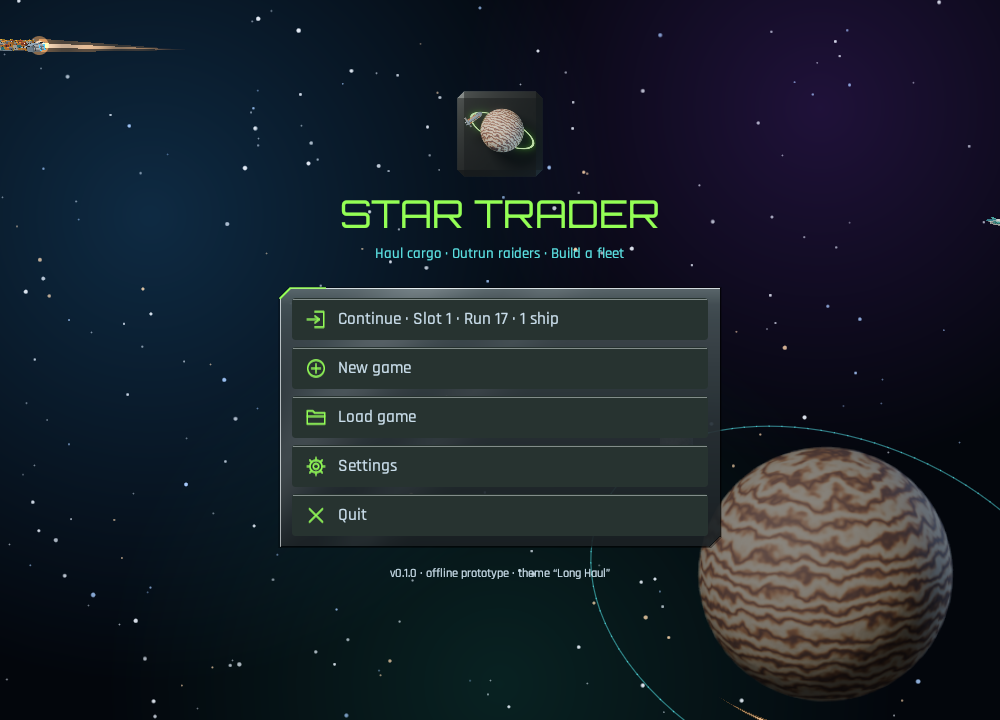
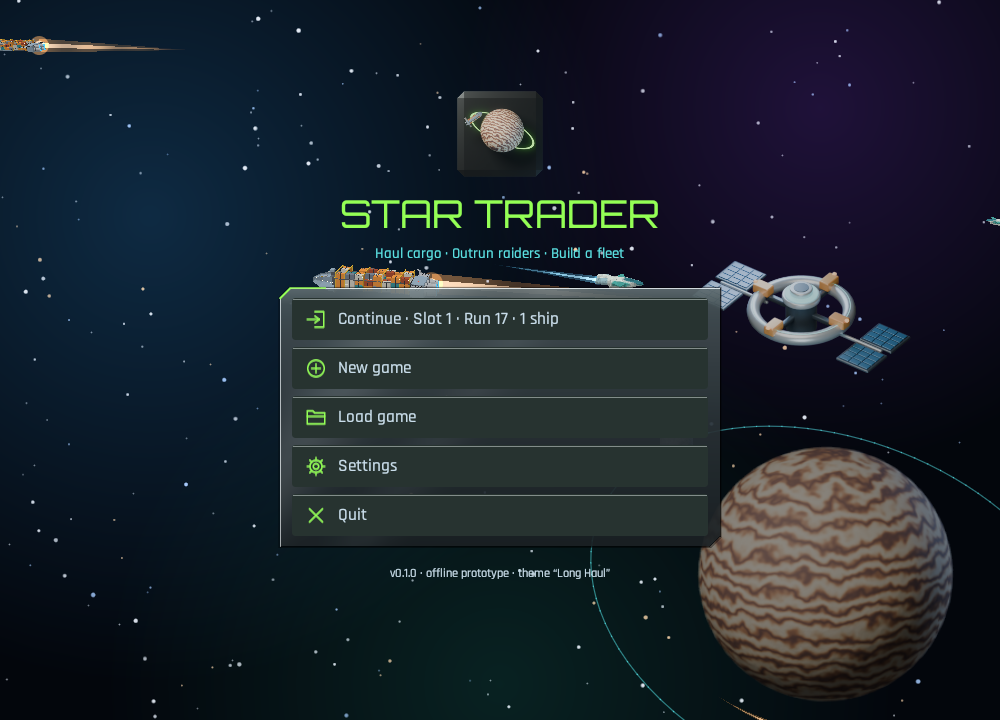
Add a trade station with docking and planet descents to the menu
The station sprite sits in orbit with a blinking docking beacon. Station
lanes send ships in from off screen to brake into its bay, ease out of it
and leave, or descend from it into the planet's atmosphere, shrinking as
they pass through the bay doors or burn in. Trails are now measured by
distance flown, so short and eased legs get true-length exhaust.

Changed region(s): [[0.713, 0.3667, 0.93, 0.5194], [0.31, 0.3667, 0.651, 0.3972]]

diff --git a/crates/game-client/src/map/menu_flights.rs b/crates/game-client/src/map/menu_flights.rs
@@ -3,9 +3,13 @@
 //! the lane and the slot: the ship type, which way it crosses, the depth and
 //! height at each end (so the angle varies), an arc and a bank.
 //!
-//! Routes run sideways far past the screen (`REACH` world units each side of
+//! Station lanes add traffic to the trade station: ships arriving and slowing
+//! into its bay, leaving it, or descending from it to the planet.
+//!
+//! Crossing routes run sideways far past the screen (`REACH` world units each side of
 //! the scene), so every ship enters and leaves off screen whatever the window
 //! shape, and resizing never moves a route. Scene space is `menu_scene`'s.
+use super::menu_scene::{PLANET_CENTRE, PLANET_RADIUS, STATION};
 use game_core::fleet::ShipKind;
 use glam::{Mat3, Vec3};
 use std::f32::consts::PI;
@@ -19,9 +23,31 @@ const SLOT_SECONDS: f32 = 36.0;
 const REACH: f32 = 220.0;
 /// Seconds lanes are shifted against each other, so flights interleave.
 const LANE_STAGGER: f32 = 4.7;
+/// Lanes of station traffic, each flying one trip per `STATION_SLOT_SECONDS`.
+const STATION_LANES: u64 = 3;
+const STATION_SLOT_SECONDS: f32 = 22.0;
+/// Share of an arrival or departure spent passing through the bay doors,
+/// where the ship shrinks into (or grows out of) the station.
+const BAY_SHARE: f32 = 0.12;
+/// Share of a descent spent entering the atmosphere, shrinking to nothing.
+const ENTRY_SHARE: f32 = 0.3;
+
+/// What a flight does.
+#[derive(Clone, Copy, Debug, PartialEq, Eq)]
+pub(super) enum Leg {
+    /// Crosses the whole view at an even speed.
+    Cross,
+    /// Comes in from off screen and slows into the station's bay.
+    Arrive,
+    /// Eases out of the bay and speeds off screen.
+    Depart,
+    /// Drops from the station down into the planet's atmosphere.
+    Descend,
+}
 
 pub(super) struct Flight {
     pub kind: ShipKind,
+    pub leg: Leg,
     from: Vec3,
     to: Vec3,
     /// Sideways bow of the route at its middle, world units (horizontal).
@@ -34,10 +60,29 @@ pub(super) struct Flight {
 }
 
 impl Flight {
-    /// Route position at `progress` (0 at the start, 1 at the end).
+    /// Route position at `progress` (0 at the start, 1 at the end, linear in
+    /// time). Station legs ease: arrivals brake, departures accelerate.
     pub fn position(&self, progress: f32) -> Vec3 {
+        let travelled = match self.leg {
+            Leg::Cross => progress,
+            Leg::Arrive => 1.0 - (1.0 - progress).powi(2),
+            Leg::Depart => progress.powi(2),
+            Leg::Descend => progress * progress * (3.0 - 2.0 * progress),
+        };
         let across = (self.to - self.from).cross(Vec3::Z).normalize_or_zero();
-        self.from.lerp(self.to, progress) + across * self.arc * (progress * PI).sin()
+        self.from.lerp(self.to, travelled) + across * self.arc * (travelled * PI).sin()
+    }
+
+    /// Ship length at `progress`, in world units: shrinking into the bay or the
+    /// atmosphere, growing out of the bay.
+    pub fn size_at(&self, progress: f32) -> f32 {
+        let factor = match self.leg {
+            Leg::Cross => 1.0,
+            Leg::Arrive => (1.0 - progress) / BAY_SHARE,
+            Leg::Depart => progress / BAY_SHARE,
+            Leg::Descend => (1.0 - progress) / ENTRY_SHARE,
+        };
+        self.size * factor.clamp(0.0, 1.0)
     }
 
     /// Route length in world units (the arc's extra is small).
@@ -65,7 +110,7 @@ pub(super) fn orientation(forward: Vec3, bank: f32) -> Mat3 {
 
 /// Flights in the air at `time` seconds, each with its progress (0-1).
 pub(super) fn active(time: f32, launch_seed: u64) -> Vec<(Flight, f32)> {
-    let mut flying = Vec::new();
+    let mut flying = station_traffic(time, launch_seed);
     for lane in 0..LANES {
         let lane_time = time + lane as f32 * LANE_STAGGER;
         let slot = (lane_time / SLOT_SECONDS).floor().max(0.0) as u64;
@@ -96,15 +141,7 @@ pub(super) fn active(time: f32, launch_seed: u64) -> Vec<(Flight, f32)> {
 /// One flight for a slot: the ship, seconds in the air and seconds into the
 /// slot it starts.
 fn plan(random: &mut fastrand::Rng) -> (Flight, f32, f32) {
-    let between =
-        |random: &mut fastrand::Rng, low: f32, high: f32| low + random.f32() * (high - low);
-    // Speeds are cruise speeds in world units per second.
-    let (kind, size, speed) = match random.u8(0..10) {
-        0..=3 => (ShipKind::Freighter, 9.0, 11.0),
-        4..=6 => (ShipKind::Patrol, 5.0, 18.0),
-        7..=8 => (ShipKind::Scout, 3.5, 30.0),
-        _ => (ShipKind::Prospector, 3.0, 14.0),
-    };
+    let (kind, size, speed) = pick_ship(random);
     let direction = if random.bool() { 1.0 } else { -1.0 };
     // Depth (y) from just in front of the planet to far behind it; heights
     // stay within the view so ships leave by the sides.
@@ -119,6 +156,7 @@ fn plan(random: &mut fastrand::Rng) -> (Flight, f32, f32) {
     let to = end(random, REACH * direction);
     let flight = Flight {
         kind,
+        leg: Leg::Cross,
         from,
         to,
         arc: between(random, -30.0, 30.0),
@@ -129,6 +167,71 @@ fn plan(random: &mut fastrand::Rng) -> (Flight, f32, f32) {
     let duration = (flight.length() / speed).min(SLOT_SECONDS - 2.0);
     let start = between(random, 0.0, SLOT_SECONDS - duration);
     (flight, duration, start)
+}
+
+fn between(random: &mut fastrand::Rng, low: f32, high: f32) -> f32 {
+    low + random.f32() * (high - low)
+}
+
+/// A ship type with its length and cruise speed (world units, units/second).
+fn pick_ship(random: &mut fastrand::Rng) -> (ShipKind, f32, f32) {
+    match random.u8(0..10) {
+        0..=3 => (ShipKind::Freighter, 9.0, 11.0),
+        4..=6 => (ShipKind::Patrol, 5.0, 18.0),
+        7..=8 => (ShipKind::Scout, 3.5, 30.0),
+        _ => (ShipKind::Prospector, 3.0, 14.0),
+    }
+}
+
+/// Ships arriving at, leaving or descending from the station at `time`.
+fn station_traffic(time: f32, launch_seed: u64) -> Vec<(Flight, f32)> {
+    let mut flying = Vec::new();
+    for lane in 0..STATION_LANES {
+        let lane_time = time + lane as f32 * STATION_SLOT_SECONDS / STATION_LANES as f32;
+        let slot = (lane_time / STATION_SLOT_SECONDS).floor().max(0.0) as u64;
+        let into_slot = lane_time - slot as f32 * STATION_SLOT_SECONDS;
+        let seed = launch_seed.rotate_left(17) ^ (lane << 40) ^ slot ^ 0x57A7_1011;
+        let mut random = fastrand::Rng::with_seed(seed);
+        let (kind, size, speed) = pick_ship(&mut random);
+        let leg = match random.u8(0..10) {
+            0..=3 => Leg::Arrive,
+            4..=6 => Leg::Depart,
+            _ => Leg::Descend,
+        };
+        // Off-screen ends come in from either side at varied depth and height.
+        let side = if random.bool() { 1.0 } else { -1.0 };
+        let far = Vec3::new(
+            220.0 * side,
+            between(&mut random, 20.0, 140.0),
+            between(&mut random, -10.0, 34.0),
+        );
+        // Descents aim at the planet's near face, high on the side facing the station.
+        let entry = PLANET_CENTRE + PLANET_RADIUS * Vec3::new(-0.45, -0.75, 0.48).normalize() * 0.9;
+        let (from, to) = match leg {
+            Leg::Arrive => (far, STATION),
+            Leg::Depart => (STATION, far),
+            _ => (STATION, entry),
+        };
+        let flight = Flight {
+            kind,
+            leg,
+            from,
+            to,
+            // Station legs are short: a slight bow, not a loop.
+            arc: between(&mut random, -3.0, 3.0),
+            size,
+            bank: between(&mut random, -0.2, 0.2),
+            phase: between(&mut random, 0.0, 100.0),
+        };
+        // Easing halves the average speed, so allow double the cruise time.
+        let duration = (2.0 * flight.length() / speed).clamp(6.0, STATION_SLOT_SECONDS - 1.0);
+        let start = between(&mut random, 0.0, STATION_SLOT_SECONDS - duration);
+        let progress = (into_slot - start) / duration;
+        if (0.0..=1.0).contains(&progress) {
+            flying.push((flight, progress));
+        }
+    }
+    flying
 }
 
 #[cfg(test)]
@@ -148,6 +251,9 @@ mod tests {
         for second in (0..600).step_by(3) {
             for (flight, progress) in active(second as f32, 7) {
                 assert!((0.0..=1.0).contains(&progress));
+                if flight.leg != Leg::Cross {
+                    continue;
+                }
                 assert!(flight.position(0.0).x.abs() > 200.0);
                 assert!(flight.position(1.0).x.abs() > 200.0);
                 headings.push((flight.to - flight.from).normalize());
@@ -168,5 +274,35 @@ mod tests {
             .map(|(flight, _)| flight.from)
             .collect();
         assert_eq!(again, before, "the same launch replays the same sky");
+    }
+
+    #[test]
+    fn station_ships_shrink_into_the_bay_and_the_atmosphere() {
+        let mut legs = Vec::new();
+        for second in 0..900 {
+            for (flight, _) in station_traffic(second as f32, 3) {
+                if !legs.contains(&flight.leg) {
+                    legs.push(flight.leg);
+                }
+                match flight.leg {
+                    Leg::Arrive => {
+                        assert!(flight.position(1.0).distance(STATION) < 0.01);
+                        assert_eq!(flight.size_at(1.0), 0.0);
+                        assert_eq!(flight.size_at(0.5), flight.size);
+                    }
+                    Leg::Depart => {
+                        assert!(flight.position(0.0).distance(STATION) < 0.01);
+                        assert_eq!(flight.size_at(0.0), 0.0);
+                    }
+                    Leg::Descend => {
+                        let end = flight.position(1.0);
+                        assert!((end.distance(PLANET_CENTRE) - PLANET_RADIUS * 0.9).abs() < 0.01);
+                        assert_eq!(flight.size_at(1.0), 0.0);
+                    }
+                    Leg::Cross => unreachable!("station lanes never cross"),
+                }
+            }
+        }
+        assert_eq!(legs.len(), 3, "arrivals, departures and descents all occur");
     }
 }

diff --git a/crates/game-client/src/map/menu_scene.rs b/crates/game-client/src/map/menu_scene.rs
@@ -20,8 +20,12 @@ use std::f32::consts::TAU;
 const EYE: Vec3 = Vec3::new(0.0, -60.0, 22.0);
 const FOCUS: Vec3 = Vec3::new(0.0, 0.0, 4.0);
 
-const PLANET_CENTRE: Vec3 = Vec3::new(32.0, 20.0, -24.0);
-const PLANET_RADIUS: f32 = 14.0;
+pub(super) const PLANET_CENTRE: Vec3 = Vec3::new(32.0, 20.0, -24.0);
+pub(super) const PLANET_RADIUS: f32 = 14.0;
+/// The trade station's docking bay, high over the planet toward the camera.
+pub(super) const STATION: Vec3 = Vec3::new(21.0, 2.0, 7.0);
+/// Station sprite width in world units.
+const STATION_SIZE: f32 = 18.0;
 /// The planet is one of these, chosen by the launch seed.
 const PLANETS: [ArtKind; 7] = [
     ArtKind::GasGiant,
@@ -62,6 +66,7 @@ enum Item {
     /// A flight and its progress (0-1) along its route.
     Ship(Flight, f32),
     Planet,
+    Station,
 }
 
 /// Draws the scene at `time` seconds; `launch_seed` picks the planet and the
@@ -69,7 +74,11 @@ enum Item {
 pub(super) fn paint(painter: &Painter, rect: Rect, time: f64, art: &Artwork, launch_seed: u64) {
     let projector = Projector::looking_at(eye(rect), FOCUS, rect);
     let time = time as f32;
-    let mut items = vec![(depth(&projector, PLANET_CENTRE), Item::Planet)];
+    let mut items = vec![
+        (depth(&projector, PLANET_CENTRE), Item::Planet),
+        // Just behind its bay, so ships docking are drawn over the station.
+        (depth(&projector, STATION) + 0.5, Item::Station),
+    ];
     for (flight, progress) in menu_flights::active(time, launch_seed) {
         let at = flight.position(progress);
         items.push((depth(&projector, at), Item::Ship(flight, progress)));
@@ -79,11 +88,14 @@ pub(super) fn paint(painter: &Painter, rect: Rect, time: f64, art: &Artwork, lau
     for (_, item) in items {
         match item {
             Item::Ship(flight, progress) => {
+                let size = flight.size_at(progress);
+                if size <= 0.05 {
+                    continue;
+                }
                 let trail = menu_trails::Trail {
                     kind: flight.kind,
-                    size: flight.size,
+                    size,
                     progress,
-                    route_length: flight.length(),
                     time,
                     phase: flight.phase,
                 };
@@ -100,8 +112,37 @@ pub(super) fn paint(painter: &Painter, rect: Rect, time: f64, art: &Artwork, lau
                 }
             }
             Item::Planet => paint_planet_system(painter, &projector, time, art, planet),
+            Item::Station => paint_station(painter, &projector, time, art),
         }
     }
+}
+
+/// The trade station sprite with a slow beacon over its bay.
+fn paint_station(painter: &Painter, projector: &Projector, time: f32, art: &Artwork) {
+    let Some(at) = projector.project(ScenePoint(STATION)) else {
+        return;
+    };
+    let size = at.scale * STATION_SIZE;
+    art.paint_tinted(
+        ArtKind::Station,
+        painter,
+        at.pos,
+        size,
+        Color32::from_gray(205),
+    );
+    // A green docking beacon, blinking once every two seconds.
+    let blink = ((time * TAU / 2.0).sin() * 4.0).clamp(0.0, 1.0);
+    let beacon = at.pos + egui::vec2(0.0, -size * 0.36);
+    painter.circle_filled(
+        beacon,
+        size * 0.03 + 1.0,
+        Color32::from_rgba_unmultiplied(148, 255, 85, (230.0 * blink) as u8),
+    );
+    painter.circle_filled(
+        beacon,
+        size * 0.08 + 2.0,
+        Color32::from_rgba_unmultiplied(148, 255, 85, (50.0 * blink) as u8),
+    );
 }
 
 fn depth(projector: &Projector, point: Vec3) -> f32 {
@@ -193,7 +234,6 @@ fn paint_orbiter(
         kind: ShipKind::Prospector,
         size: 2.4,
         progress: 1.0,
-        route_length: TAU * radius,
         time,
         phase: 42.0,
     };

diff --git a/crates/game-client/src/map/menu_trails.rs b/crates/game-client/src/map/menu_trails.rs
@@ -20,8 +20,6 @@ pub(super) struct Trail {
     /// How far along its route (0-1) the ship is; the trail never reaches back
     /// before 0.
     pub progress: f32,
-    /// Route length in world units, to turn trail length into progress.
-    pub route_length: f32,
     /// Seconds, for the flicker and flow.
     pub time: f32,
     /// Per-ship offset, so trails do not pulse in step.
@@ -37,12 +35,28 @@ fn exhaust(kind: ShipKind) -> [u8; 3] {
 }
 
 impl Trail {
+    /// How far back in progress the trail reaches to cover `length` world
+    /// units of route actually flown. Measured along the route, so eased
+    /// (braking or accelerating) and short station legs get true lengths.
+    fn span_for(&self, length: f32, route: &impl Fn(f32) -> Vec3) -> f32 {
+        const STEP: f32 = 1.0 / 1500.0;
+        let (mut back, mut travelled) = (self.progress, 0.0);
+        let mut previous = route(back);
+        while travelled < length && back > 0.0 {
+            back = (back - STEP).max(0.0);
+            let point = route(back);
+            travelled += point.distance(previous);
+            previous = point;
+        }
+        self.progress - back
+    }
+
     /// Paints the trail of a ship whose position at a given progress is `route`.
     pub fn paint(&self, painter: &Painter, projector: &Projector, route: impl Fn(f32) -> Vec3) {
         let (time, phase) = (self.time, self.phase);
         let flicker = 0.85 + 0.1 * (time * 7.0 + phase).sin() + 0.05 * (time * 23.0 + phase).sin();
         let length = self.size * LENGTH_IN_HULLS * flicker;
-        let span = (length / self.route_length.max(f32::EPSILON)).min(self.progress);
+        let span = self.span_for(length, &route);
         if span <= 0.0 {
             return;
         }

diff --git a/README.md b/README.md
@@ -113,8 +113,9 @@ The initial path is `data/slot-1.json`. Normal desktop launches open the
 **New game** (setup, then an empty slot or a confirmed start-over in a used one),
 **Load game** (three slots and any separately named last-used save), **Settings**
 and **Quit**, over a drifting starfield where the game's 3D ships cross on
-generated routes with live engine trails and a moon and a prospector orbit a
-planet (picked anew each launch), while the original theme “Long Haul” plays. Load game shows which games can load, which slots are empty, and which
+generated routes with live engine trails, dock at and leave a trade station or
+descend to the planet (picked anew each launch) while a moon and a prospector
+orbit it, while the original theme “Long Haul” plays. Load game shows which games can load, which slots are empty, and which
 saves need attention. An incompatible save remains untouched until you confirm
 deletion of it and its backup; the menu never autosaves over it. In game,
 **Menu → Main menu** saves (or, with autosave off, asks first) and returns there.
